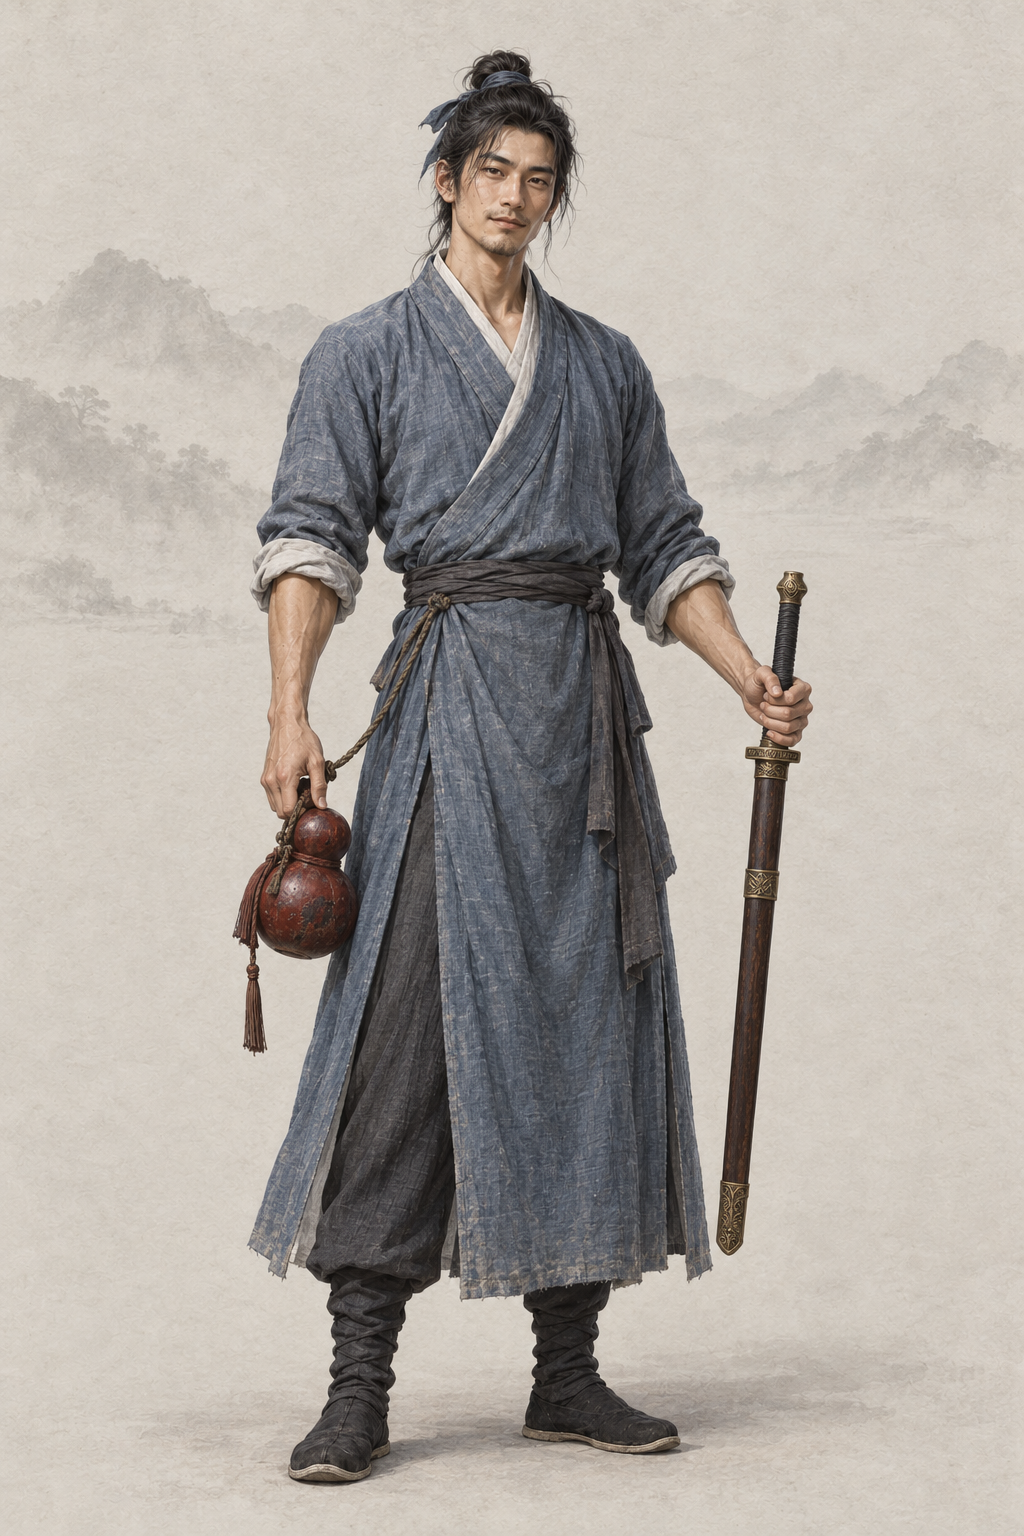
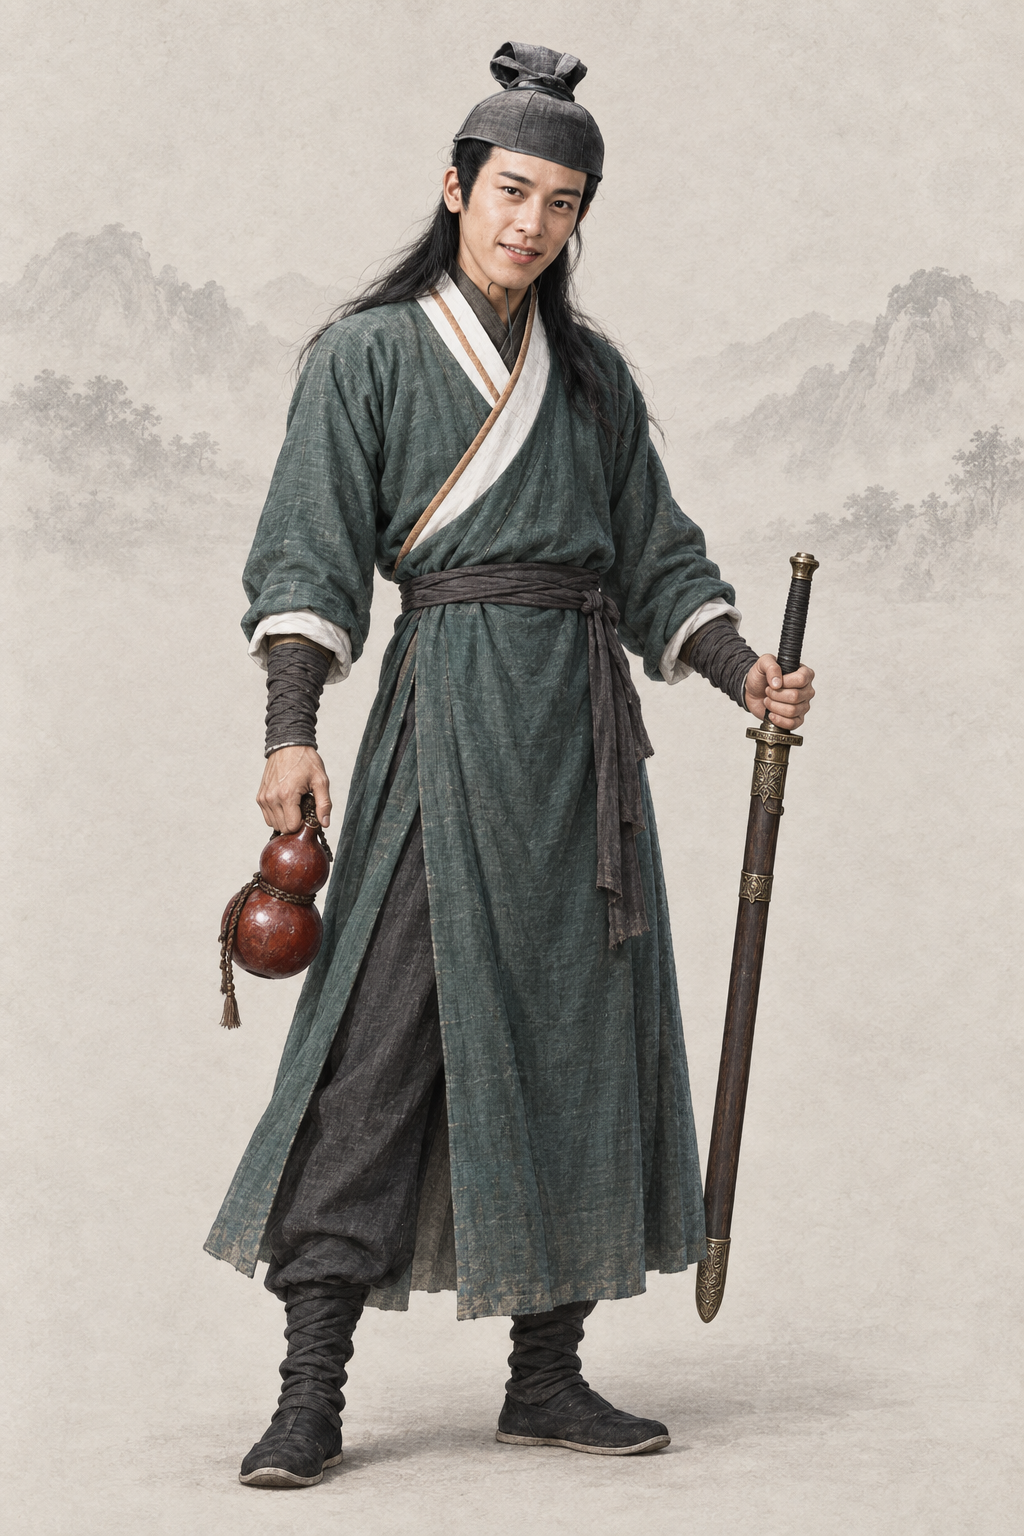
assets(character): por_npc_linghuchong__ch05_youth_huashan_base 令狐冲（codex · AR-32 1996 TVB《笑傲江湖》 剧照 + 基线）
参考 第 1–2 张为 1996 TVB《笑傲江湖》令狐冲剧照（linghuchong_1996_lvsongxian_sina1.jpg；sina3.jpg 裁去台标字幕）与两张同性别基线重出；提示词写回、frontmatter 加 classic_ref。

diff --git a/assets/default/prompts/characters/ch05-xiaoao/npc_linghuchong.md b/assets/default/prompts/characters/ch05-xiaoao/npc_linghuchong.md
@@ -19,15 +19,51 @@ references:
   use: 第三参考仅背景：极淡水墨远山、薄雾、暖浅灰纸底与留白；本会话已实际view并在写入前核对SHA未变。忽略女性面孔、发型、体态、倾头、白青裙装及饰物；墨痕和纸纹不得进入人物、衣料与器物。
 status: redo
 redo_reason: "现图像“路人甲”，网巾头箍与林平之、田伯光同型，且与四张场景图不是同一张脸；按原著浪子剑客气质整体重画，作为全部场景的身份基准。"
-reference_upload:
-- assets/default/baseline/character/male/ref_npc_linghuchong__ch05_base01.png
 realism_revision: user_identity_pose_20261001
 codex_prompt_rev: 2026-10-02
+reference_upload:
+- .agents/coord/imagegen-reference/identity-20261002/xiaoao/linghuchong_1996_lvsongxian_sina1.jpg
+- .agents/coord/imagegen-reference/identity-20261002/xiaoao/linghuchong_1996_lvsongxian_sina3.jpg
+- assets/default/baseline/character/male/ref_npc_linghuchong__ch05_base01.png
+- assets/default/baseline/character/male/ref_npc_xiaofeng__ch01_base01.png
+classic_ref:
+  version: 1996 TVB《笑傲江湖》
+  stills:
+  - .agents/coord/imagegen-reference/identity-20261002/xiaoao/linghuchong_1996_lvsongxian_sina1.jpg
+  - .agents/coord/imagegen-reference/identity-20261002/xiaoao/linghuchong_1996_lvsongxian_sina3.jpg
+  crop:
+    linghuchong_1996_lvsongxian_sina3.jpg:
+    - 225
+    - 40
+    - 560
+    - 318
 ---
 
 # 令狐冲 · 人物写实修正
 
 ## Gemini 提示词
+
+> 2026-10-02 AR-32 重出（8 号出图员，codex exec · image_gen）：主要角色参考经典造型加项目基线生成。上传顺序：第 1–2 张为 1996 TVB《笑傲江湖》令狐冲剧照（linghuchong_1996_lvsongxian_sina1.jpg；sina3.jpg 裁去台标字幕），最后两张为同性别画风基线（缩小版 JPEG）。参考图只借造型、气质与面部特征，画面按项目画风重绘、不复制照片或像素图。上一版保留在下一节作历史。
+
+```text
+生成一张 2:3 竖幅全身人物立绘：单人、单一视角、完整全身——头顶、双手、双脚和手中器物的两端都在画面内，四周留出自然空白；人物站姿自然，身体基本朝向正面，头部端正（不歪头、不仰不俯），镜头平视。
+【参考图】第 1–2 张参考图是该角色经典影视造型的剧照：借鉴其发型、服饰、配色、标志道具、气质和面部特征，让人一眼认出是这个角色；但必须重新绘制成项目画风，不要照片质感，不要照搬剧照的构图、光影、背景和姿势，也不要做成照片修图。最后两张是本项目画风基线：画风、用色、光线、质感和暖浅灰纸底加淡水墨背景以它们为准。
+【剧照借鉴要点】取剧照里那顶灰黑色软布巾帽（帽顶打一个结）、帽下披到肩后的乌黑长发、墨绿交领长衫配白色内领和细细的赭色滚边、俊朗的长脸和明朗带笑、带点狡黠的眼神。姿势和构图按下文的全身立绘来画，不照搬剧照。
+【画风】写实手绘古风人物插画，与本项目写实武侠角色立绘同一画风，像功力深厚的画师用细腻笔触画出的真实人物。手绘插画质感，不是 CG 渲染：不要过度光滑的皮肤、完美对称的五官、塑料高光、过度锐利的发丝；保留自然的笔触和细微不完美。皮肤有真实质感——细小毛孔、细纹、晒痕和自然的左右不对称，不磨皮、不油亮；头发是一缕缕自然的发丝和少量碎发；布料看得出经纬纹理、厚薄和自然垂坠的褶皱，带穿用过的轻微旧化，但完整不破烂；整体设色低饱和、沉稳；柔和的自然光从左上方照来，明暗过渡自然，不打舞台光、轮廓光或美颜柔光。不是照片，不是三维渲染，不是动漫或游戏 CG，也不是油画（没有厚涂笔触和画布纹理）。
+【背景】不透明的暖浅灰色纸底，只在远处有极淡的水墨远山和薄雾，大面积留白；人物与背景明暗分明、轮廓边缘干净完整（后续要自动抠图），水墨和纸纹只在背景里，不侵入人物和衣服；脚下只有很淡的一点接触阴影。
+【人物】令狐冲，《笑傲江湖》男主角，华山派大弟子，在思过崖面壁、随风清扬学剑的时期。
+【年龄与体态】约二十五岁的成年男子，身材修长偏瘦，但肩背、前臂和腿部有多年练剑的结实筋骨；站姿松弛随性，重心略偏一侧，带着浪子的潇洒。
+【经典造型】九十年代经典港剧里的浪子剑客：灰黑软布巾帽、帽下长发披肩、一身墨绿长衫，一手握剑、一手拎着酒葫芦；笑容洒脱、眼神里有三分醉意三分狡黠，英俊而不羁。
+【面容】按剧照：俊朗的长脸、下颌线利落；浓黑的剑眉；眼睛明亮有神，笑起来眼角弯弯，眼神洒脱又带点狡黠；鼻梁挺直；嘴角上扬、笑容爽朗；肤色是健康的浅麦色。英俊潇洒、有故事的江湖浪子。
+【发式】头戴一顶灰黑色软布巾帽（帽顶打一个结），乌黑的长发从帽下披到肩后，两鬓垂着几缕长发。
+【服饰】墨绿色交领长衫（右衽，左襟压右襟），白色内领，领缘有细细的赭色滚边；腰间系深色布带，下穿深色长裤、黑布靴。衣服穿得有点旧，但干净完整。
+【道具】左手握着一柄连鞘的长剑（深色木鞘、黄铜剑格，剑不出鞘）；右手拎着一只朱红色漆面的酒葫芦，葫芦用细绳系在腰带上。
+【姿态与神情】随性洒脱地站着，像对什么都满不在乎，眼神却清亮、重情义。
+【不要】画面里不要任何文字、题款、印章、签名、水印、边框、分格或多视图；不要第二个人；不要幼态（童颜、娃娃脸、婴儿肥、儿童或少年身材、大头小身）；不要塑料感皮肤、磨皮美颜、网红脸（尖下巴大眼高鼻的模板脸）、过度对称、浓妆、偶像式打光、蜡像感；不要照片质感，不要像剧照照片、照片修图或拼贴，不要照搬剧照的背景、光影、构图和姿势；不要三维渲染或动漫大眼；不要歪头、斜镜头；不要多指、缺指（设定的伤残除外）、手与器物粘连或悬空；衣襟必须右衽（穿着者的左襟压在右襟上），不要左衽（设定为少数民族服制的除外），不要水平镜像；不要现代物品、发光特效、法阵或能量光。不要网巾或额头箍带；不要醉倒踉跄；不要拔剑；不要清代剃发留辫。
+【画风基线】随提示词上传的参考图里，最后两张是本项目的立绘画风基线：只参考它们的画风、用色、光线、质感和暖浅灰纸底加淡水墨的背景处理，整体画风必须与它们一致——精细写实的数字手绘插画，不是油画，不要厚涂笔触和画布纹理。基线图只取画风，不取长相：不要照搬基线图里人物的长相、年龄、发型、服饰和姿势。
+```
+
+## AR-31 文字版 Gemini 提示词（2026-10-02 凌晨；AR-32 重出之前，历史，不再用于出图）
 
 > 2026-10-02 AR-31 改写（1 号出图员，codex exec · image_gen 出图）：重要人物借鉴经典影视造型，只写成文字——不写演员名、不上传剧照、原创面孔；主角和美人画得好看，去 AI 味，禁止幼态。出图时上传两张同性别基线立绘作画风参考（放在最后）。审核组原稿保留在下一节作历史。
 
